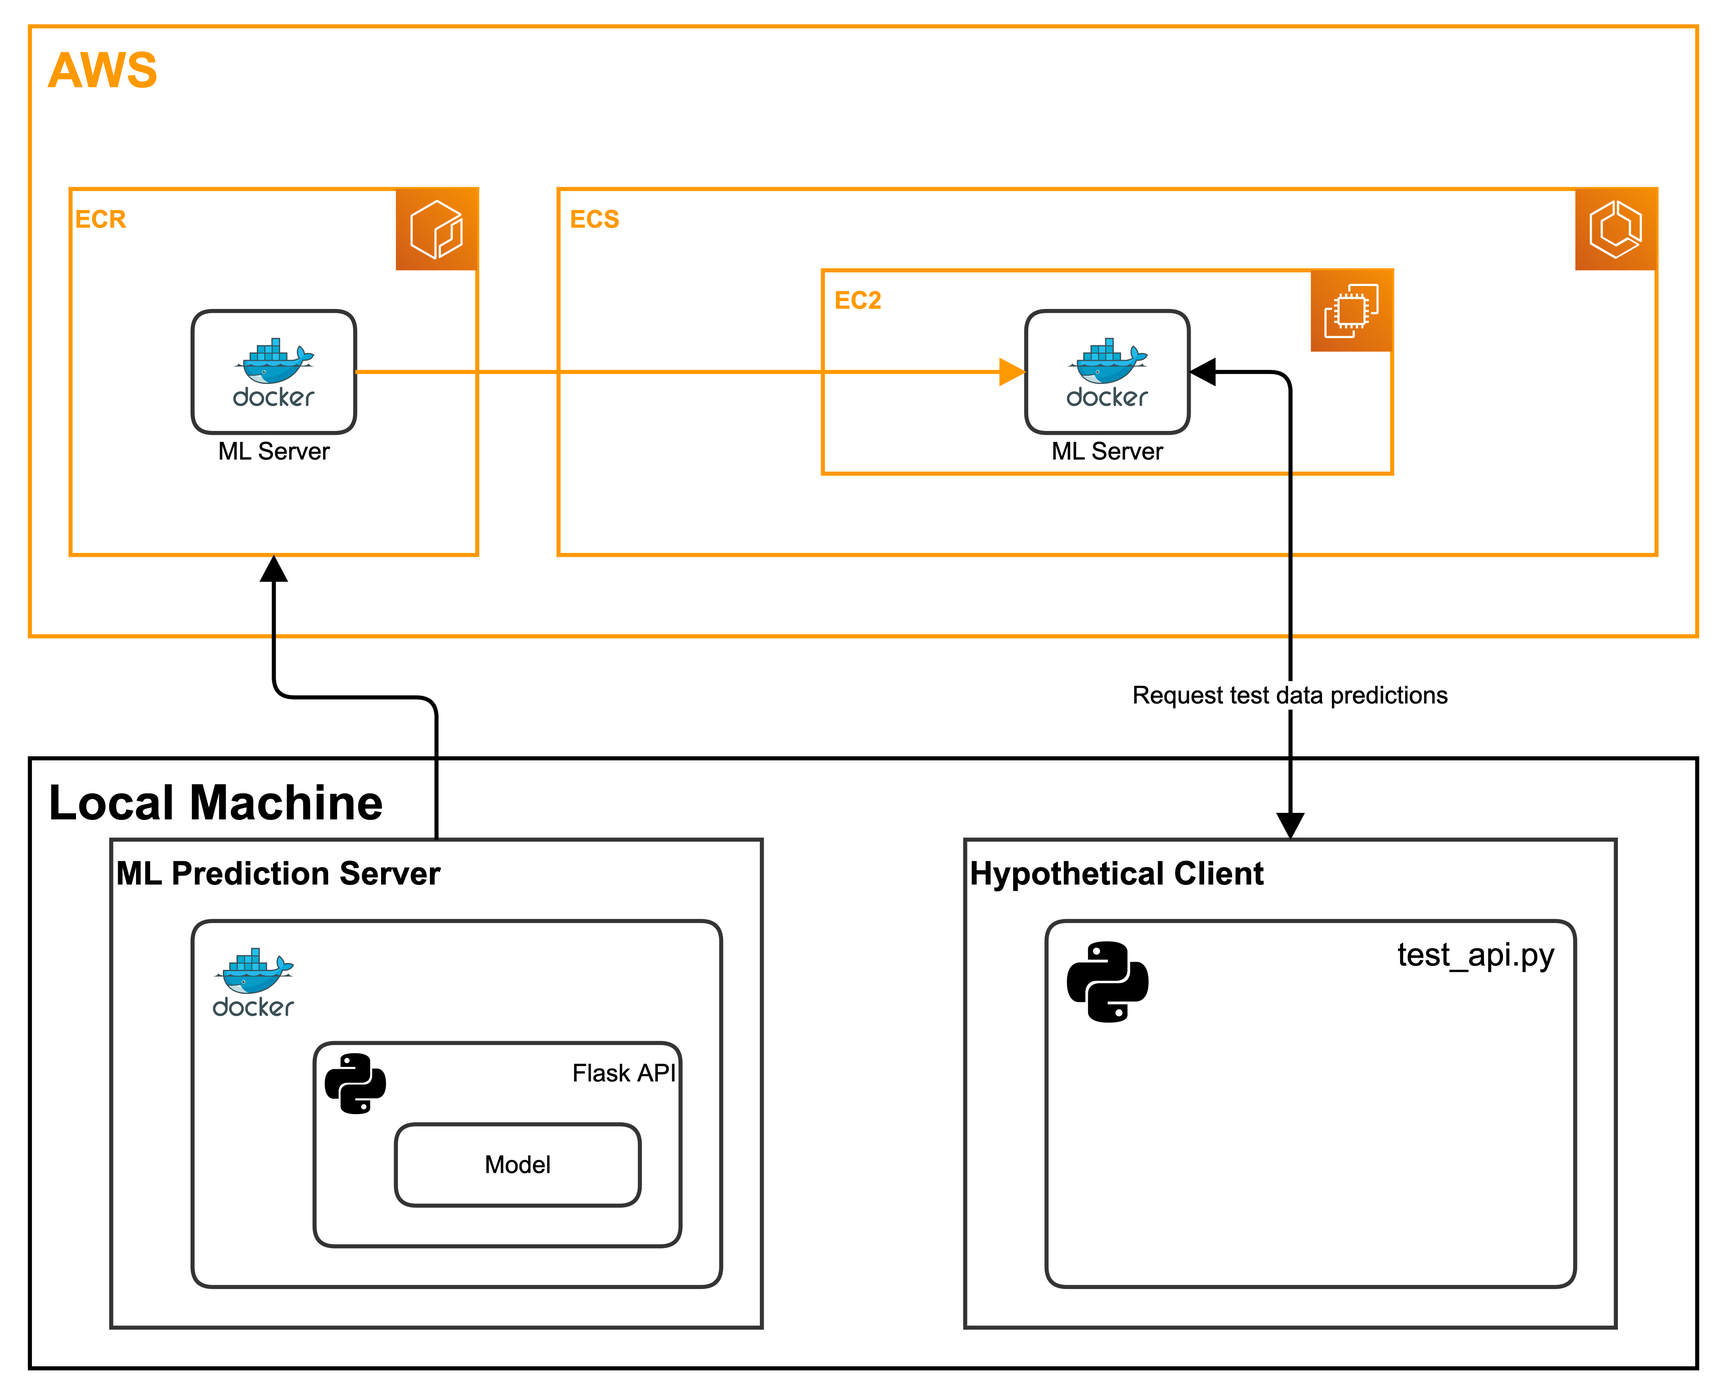
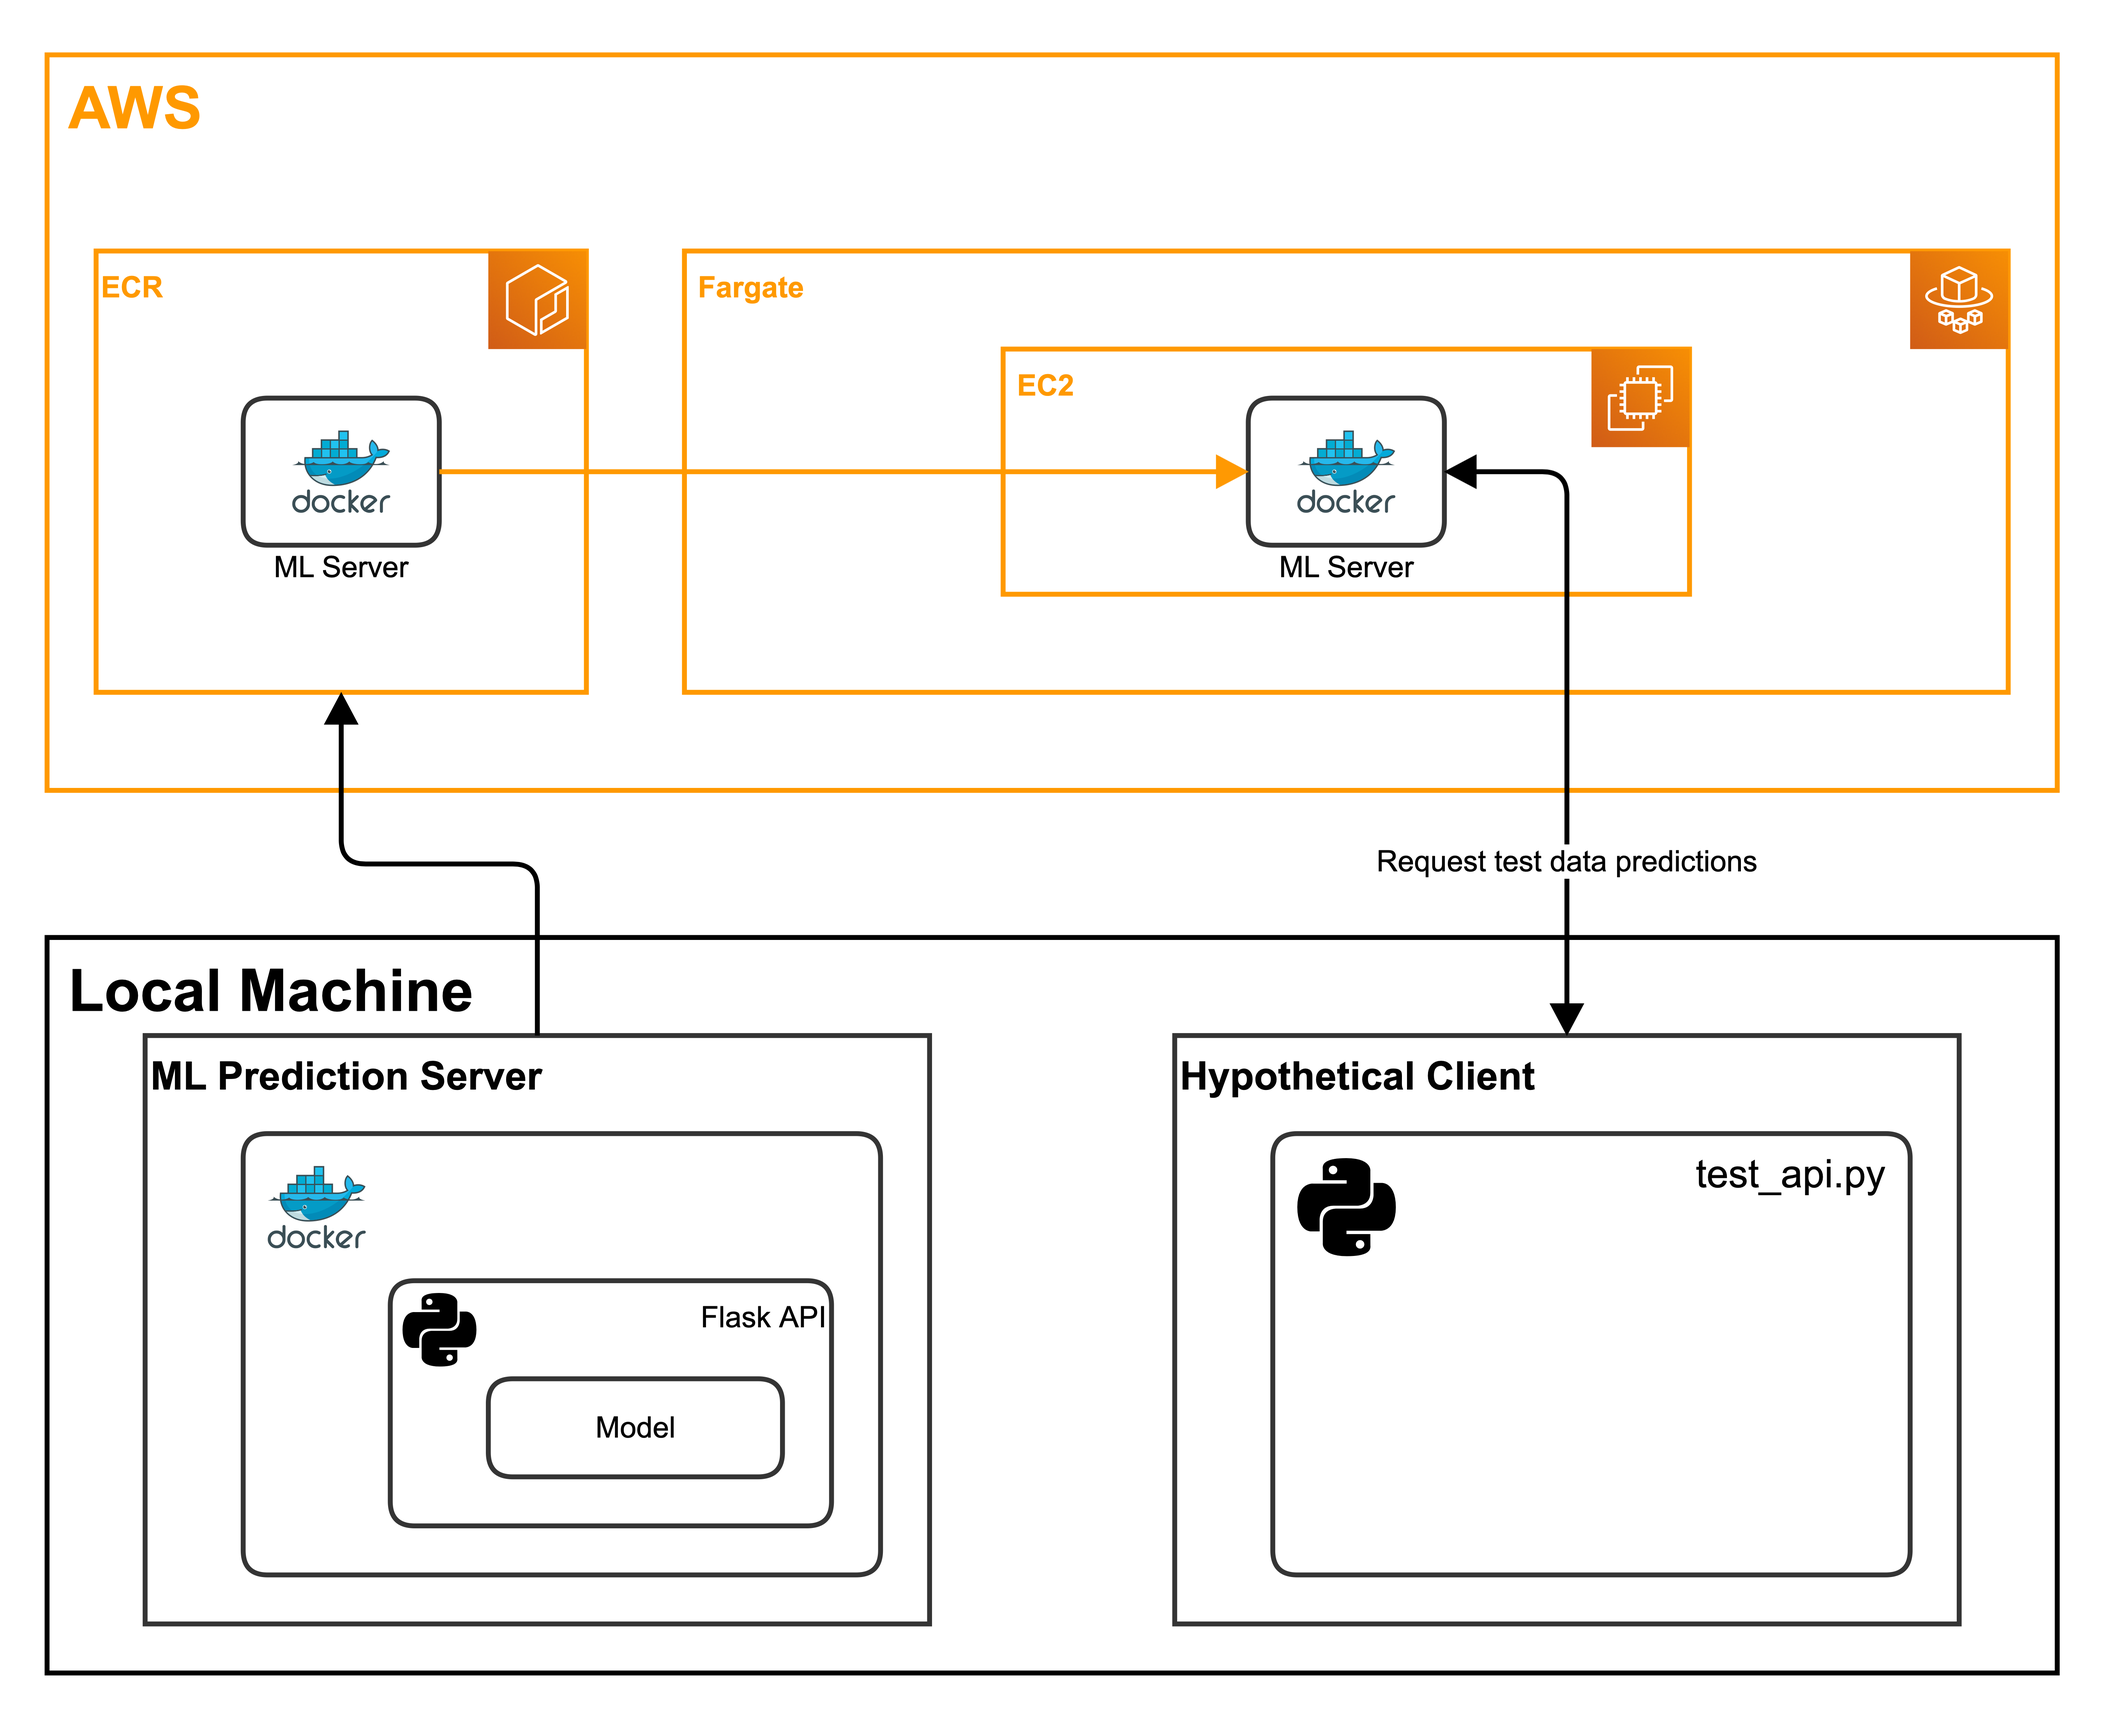
Docker deployment to Fargate complete

diff --git a/app.py b/app.py
@@ -23,4 +23,4 @@ def predict(model=prod_model):
         return jsonify( predictions )
 
 if __name__ == "__main__":
-    app.run(host="0.0.0.0", port=int(os.environ.get('PORT', 5000)))
+    app.run(host="0.0.0.0", port=int(os.environ.get('PORT', 80)))

diff --git a/README.md b/README.md
@@ -9,50 +9,23 @@ to build/create the most interesting statistical model that solves an interestin
 
 ## Steps to build & test "ML Prediction Server" (locally)
 
-1. Run [train_model.py](train_model.py).
+1. Run [train_model.py](train_model.py) - `$ python train_model.py`.
 * Trains & saves a model.
 * Saves a test data set.
 2. Run `$ docker build --tag ml-server:latest .`.
 * Build a docker image using the model build in #1 and [app.py](app.py).
 3. Run `$ docker run --publish <host_port>:<container_port> ml-server`, which in this case, is:
-	`$ docker run --publish 8080:5000 ml-server`
-* Runs the container, mapping port 5000 of the container to port 8080 of the host.
-4. (In a separate shell) Run `$ python test_api.py 127.0.0.1:8080` from the command line.
+	`$ docker run --publish 80:80 ml-server`
+* Runs the container, mapping port 80 of the container to port 80 of the host.
+4. (In a separate shell) Run `$ python test_api.py 127.0.0.1` from the command line.
 * Loads the test data set from #1, and sends a sample to the Docker Flask API. Should output the class predictions for
   the requested instances.
 
 ## Steps to move "ML Prediction Server" to AWS Cloud
 
 1. Complete all steps in "Steps to recreate/test (locally)" to ensure everything works properly.
-2. Run [aws_setup/setup_aws_resources.sh](aws_setup/setup_aws_resources.sh).
-* Create ECR repo and pushes Docker images to said repo.
-3. Via the AWS Console, create an ECR Cluster:
-* Use the **EC2 Linux + Networking** template.
-* Ok to use defaults for everything **except:**
-	* (For demo uses) Choose a instance type that isn't going to cost too much.
-	* Any subnet will work (determine which AZ ( within the region ) the cluster will be in ).
-	* Set **Auto assign public IP** = **Enabled**.
-	* Use default security group.
-4. Via the AWS Console, create a Task Definition:
-* Choose **EC2** as the Launch Type compatibility.
-* Click "Add Container" and in the "image"  section, copy & paste the URI of the repo in ECR.
-* Set a soft memory limit of 500 MiB for the container.
-* Map port 8080 of the host to port 5000 of the container.
-* (Click "Add")
-5. Click "Create" which will create the new task definition.
-6. Click on "Clusters" in the left-hand pane.
-7. Click the name of the cluster you created.
-8. In the 'Tasks' pane of your cluster, select "Run new Task":
-* Select "EC2" as the Launch type.
-* Choose the Task Definition you created in #4.
-* Click "Create"
-* **Make sure the "Last Status" says "RUNNING" prior to moving forward.**
-9. Click on the "ECS Instance" In the "ECS Instances" pane of the cluster view.
-10. You will be brought to the EC2 Dashboard; click on the instance ID associated with the cluster;
-* In the security pane, make sure that the Inbound Rules allows traffic (both IPv4 & IPv6) on port 8080.
-11. Test that the instance is running by going to `<instance_public_ip_address>:8080/`; there should be a welcom
-    message.
-
+2. Change directories to [aws_setup ](aws_setup/) `$ cd aws_setup`.
+3. Run [setup_aws_resources.sh](setup_aws_resources.sh) `$ bash setup_aws_resources.sh`.
 ## Steps to test if the service is working 
 
-1. Run `$ python test_api.py <instance_public_ip_address>:8080`. The accuracy of the test set will be printed.
+1. Run `$ python test_api.py <instance_public_ip_address>`. The accuracy of the test set will be printed.
